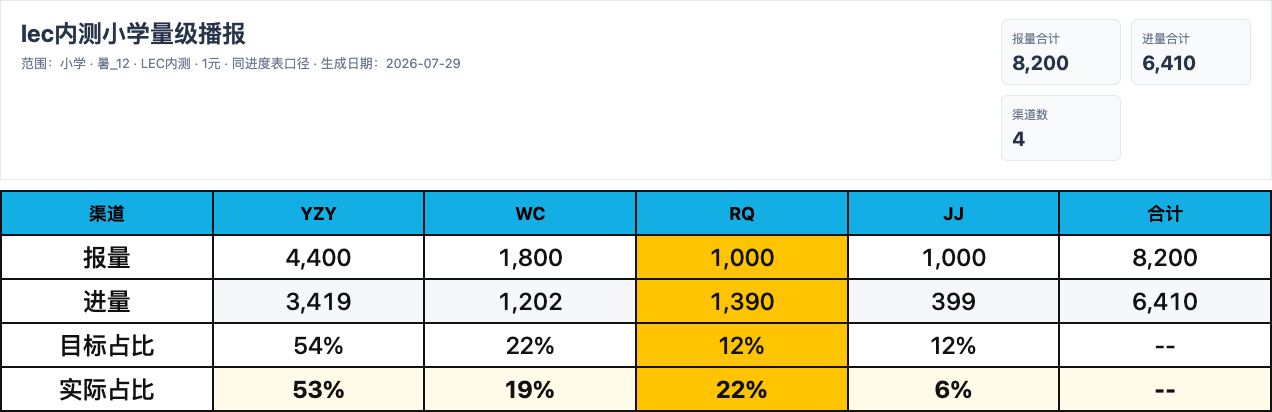
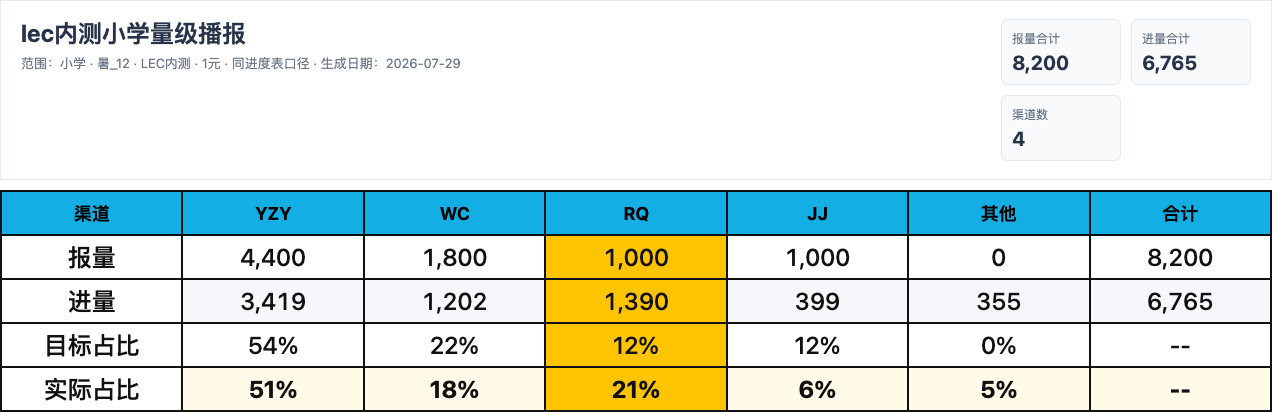
Align lec1 report with summary totals

diff --git a/reports/daily_progress/lec1_share.html b/reports/daily_progress/lec1_share.html
@@ -14,14 +14,14 @@
       </div>
       <div class="metrics">
         <div><span>报量合计</span><b>8,200</b></div>
-        <div><span>进量合计</span><b>6,410</b></div>
+        <div><span>进量合计</span><b>6,765</b></div>
         <div><span>渠道数</span><b>4</b></div>
       </div>
     </header>
     <section class="card lec1-card">
       <table class="lec1-table">
-        <thead><tr><th>渠道</th><th>YZY</th><th>WC</th><th>RQ</th><th>JJ</th><th>合计</th></tr></thead>
-        <tbody><tr><th>报量</th><td class="num">4,400</td><td class="num">1,800</td><td class="num highlight">1,000</td><td class="num">1,000</td><td class="num">8,200</td></tr><tr><th>进量</th><td class="num">3,419</td><td class="num">1,202</td><td class="num highlight">1,390</td><td class="num">399</td><td class="num">6,410</td></tr><tr><th>目标占比</th><td>54%</td><td>22%</td><td class="highlight">12%</td><td>12%</td><td>--</td></tr><tr><th>实际占比</th><td>53%</td><td>19%</td><td class="highlight">22%</td><td>6%</td><td>--</td></tr></tbody>
+        <thead><tr><th>渠道</th><th>YZY</th><th>WC</th><th>RQ</th><th>JJ</th><th>其他</th><th>合计</th></tr></thead>
+        <tbody><tr><th>报量</th><td class="num">4,400</td><td class="num">1,800</td><td class="num highlight">1,000</td><td class="num">1,000</td><td class="num">0</td><td class="num">8,200</td></tr><tr><th>进量</th><td class="num">3,419</td><td class="num">1,202</td><td class="num highlight">1,390</td><td class="num">399</td><td class="num">355</td><td class="num">6,765</td></tr><tr><th>目标占比</th><td>54%</td><td>22%</td><td class="highlight">12%</td><td>12%</td><td>0%</td><td>--</td></tr><tr><th>实际占比</th><td>51%</td><td>18%</td><td class="highlight">21%</td><td>6%</td><td>5%</td><td>--</td></tr></tbody>
       </table>
     </section>
   </main>

diff --git a/tests/test_daily_report_images.py b/tests/test_daily_report_images.py
@@ -1,4 +1,8 @@
+import json
+import tempfile
 import unittest
+from pathlib import Path
+from unittest.mock import patch
 
 import pandas as pd
 
@@ -8,14 +12,19 @@ from reports.build_daily_report_images import (
     filter_lec1_data,
     lec1_actual_shares,
     lec1_channel_counts,
+    lec1_summary_scope,
     latest_lec1_term,
     latest_target_term,
     progress_gap,
     remaining_days,
+    render_lec1_share,
     render_rows,
     status_text,
     term_key,
 )
+
+
+ROOT = Path(__file__).parents[1]
 
 
 class RemainingDaysTest(unittest.TestCase):
@@ -204,7 +213,7 @@ class Lec1ChannelsTest(unittest.TestCase):
         self.assertEqual(len(result), 2)
         self.assertEqual(counts[yzy_index], 1)
 
-    def test_actual_share_uses_one_yuan_denominator(self):
+    def test_actual_share_uses_one_yuan_denominator_by_default(self):
         data = pd.DataFrame(
             [
                 {"价体": 100, "custom_uid": "y1", "last_from": "out_wxst_wxstqt_1774944753086"},
@@ -217,6 +226,127 @@ class Lec1ChannelsTest(unittest.TestCase):
         shares = lec1_actual_shares(data)
 
         self.assertEqual(shares, [2 / 3, 0, 1 / 3, 0])
+
+    def test_render_lec1_share_uses_summary_total_and_keeps_other_channel(self):
+        demo = pd.DataFrame(
+            [
+                {
+                    "学部": "小学",
+                    "期次": "暑_12",
+                    "线索渠道二级分类": "LEC内测",
+                    "价体": 100,
+                    "年级": "三年级",
+                    "下单日期": "2026-07-09",
+                    "custom_uid": "known",
+                    "last_from": "out_wxst_wxstqt_1774944753086",
+                },
+                {
+                    "学部": "小学",
+                    "期次": "暑_12",
+                    "线索渠道二级分类": "LEC内测",
+                    "价体": 100,
+                    "年级": "三年级",
+                    "下单日期": "2026-07-09",
+                    "custom_uid": "other",
+                    "last_from": "unlisted-source",
+                },
+            ]
+        )
+        target = pd.DataFrame(
+            [
+                {
+                    "学部": "小学",
+                    "期次": "暑_12",
+                    "线索渠道二级分类": "LEC内测",
+                    "价体": 100,
+                    "年级": "三年级",
+                    "目标": 8200,
+                    "target_time": "2026-07-29",
+                    "进量日期": "2026-07-23",
+                },
+            ]
+        )
+        summary = pd.DataFrame(
+            [
+                {
+                    "学部": "小学",
+                    "期次": "暑_12",
+                    "线索渠道二级分类": "LEC内测",
+                    "价体": "1.0",
+                    "年级": "三年级",
+                    "下单日期": "2026-07-09",
+                    "target_time": "2026-07-29",
+                    "进量日期": "2026-07-23",
+                    "目标": 8200,
+                    "现状": 2,
+                    "完成率": 2 / 8200,
+                    "进度": 0.5,
+                },
+            ]
+        )
+
+        with tempfile.TemporaryDirectory() as temp_dir, patch(
+            "reports.build_daily_report_images.OUT_DIR",
+            Path(temp_dir),
+        ):
+            output = render_lec1_share(demo, target, summary)
+
+        self.assertEqual(output["summary"]["报量"], "8200")
+        self.assertEqual(output["summary"]["进量"], "2")
+        self.assertIn("YZY=1", output["summary"]["渠道进量"])
+        self.assertIn("其他=1", output["summary"]["渠道进量"])
+
+    def test_lec1_summary_scope_accepts_csv_and_xlsx_payment_formats(self):
+        summary = pd.DataFrame(
+            [
+                {"学部": "小学", "期次": "暑_12", "线索渠道二级分类": "LEC内测", "价体": "1.0", "目标": 1, "现状": 1},
+                {"学部": "小学", "期次": "暑_12", "线索渠道二级分类": "LEC内测", "价体": "1", "目标": 2, "现状": 2},
+                {"学部": "小学", "期次": "暑_12", "线索渠道二级分类": "LEC内测", "价体": "9.9", "目标": 3, "现状": 3},
+            ]
+        )
+
+        scoped = lec1_summary_scope(summary, "暑_12")
+
+        self.assertEqual(scoped["目标"].sum(), 3)
+
+
+class ArtifactConsistencyTest(unittest.TestCase):
+    def test_csv_xlsx_and_manifest_share_current_summary_metrics(self):
+        csv = pd.read_csv(ROOT / "outputs/tongji_summary/tongji_summary_current.csv")
+        xlsx = pd.read_excel(
+            ROOT / "outputs/tongji_summary/tongji_summary_current.xlsx",
+            sheet_name="目标现状对比",
+            header=1,
+        )
+        with (ROOT / "reports/daily_progress/manifest.json").open() as handle:
+            manifest = {item["dept"]: item for item in json.load(handle)}
+
+        self.assertEqual(len(csv), len(xlsx))
+        self.assertEqual(int(csv["目标"].sum()), int(xlsx["目标"].sum()))
+        self.assertEqual(int(csv["现状"].sum()), int(xlsx["现状"].sum()))
+
+        for dept in ["小学", "初中", "高中"]:
+            item = manifest[dept]
+            scoped = csv[csv["学部"].eq(dept) & csv["期次"].eq(item["term"])]
+            target = int(scoped["目标"].sum())
+            current = int(scoped["现状"].sum())
+            progress = pd.to_numeric(scoped["进度"], errors="coerce")
+            self.assertEqual(item["summary"]["目标"], str(target))
+            self.assertEqual(item["summary"]["成单量"], str(current))
+            self.assertEqual(
+                item["summary"]["平均进度"],
+                str(progress.dropna().mean()),
+            )
+
+        lec1 = manifest["lec1"]
+        lec1_scope = csv[
+            csv["学部"].eq("小学")
+            & csv["期次"].eq(lec1["term"])
+            & csv["线索渠道二级分类"].eq("LEC内测")
+            & pd.to_numeric(csv["价体"], errors="coerce").eq(1)
+        ]
+        self.assertEqual(lec1["summary"]["报量"], str(int(lec1_scope["目标"].sum())))
+        self.assertEqual(lec1["summary"]["进量"], str(int(lec1_scope["现状"].sum())))
 
 
 class StatusTextTest(unittest.TestCase):

diff --git a/reports/build_daily_report_images.py b/reports/build_daily_report_images.py
@@ -9,7 +9,7 @@ import pandas as pd
 
 
 ROOT = Path("/Users/kityhello/workplace/project/rizhuizong")
-SUMMARY_PATH = ROOT / "outputs" / "tongji_summary" / "tongji_summary_current.xlsx"
+SUMMARY_PATH = ROOT / "outputs" / "tongji_summary" / "tongji_summary_current.csv"
 DEMO_PATH = ROOT / "tongji_demo.xlsx"
 TARGET_PATH = ROOT / "tongji_target.xlsx"
 OUT_DIR = ROOT / "reports" / "daily_progress"
@@ -132,6 +132,15 @@ def normalize_summary_frame(df):
     for col in ["下单日期", "target_time", "进量日期"]:
         data[col] = pd.to_datetime(data[col], errors="coerce")
     return data
+
+
+def payment_as_number(value):
+    if pd.isna(value):
+        return pd.NA
+    numeric = pd.to_numeric(value, errors="coerce")
+    if pd.isna(numeric):
+        return pd.NA
+    return float(numeric)
 
 
 def enrich(df):
@@ -314,6 +323,17 @@ def latest_lec1_term(target):
     return latest_target_term(scoped)
 
 
+def lec1_summary_scope(summary, term):
+    data = summary.copy()
+    data["价体"] = data["价体"].map(payment_as_number)
+    return data[
+        data["学部"].eq(LEC1_DEPARTMENT)
+        & data["期次"].eq(term)
+        & data["线索渠道二级分类"].eq(LEC1_CHANNEL)
+        & data["价体"].isin([value / 100 for value in LEC1_PAYMENT_VALUES])
+    ].copy()
+
+
 def normalize_report_channel(value):
     if isinstance(value, str) and value.startswith("外部微转-"):
         return "外部微转-*"
@@ -387,25 +407,33 @@ def lec1_channel_count(data, last_from, payment_values):
     return len(set(keys))
 
 
-def lec1_actual_shares(data):
+def lec1_actual_shares(data, total=None):
     one_yuan_counts = [
         lec1_channel_count(data, last_from, [100])
         for _name, last_from, _target_volume, _target_share in LEC1_CHANNELS
     ]
-    one_yuan_total = sum(one_yuan_counts)
-    return [count / one_yuan_total if one_yuan_total else 0 for count in one_yuan_counts]
+    denominator = sum(one_yuan_counts) if total is None else total
+    return [count / denominator if denominator else 0 for count in one_yuan_counts]
 
 
-def render_lec1_share(demo, target):
+def render_lec1_share(demo, target, summary):
     term = latest_lec1_term(target)
     data = filter_lec1_data(demo, target, term)
+    summary_scope = lec1_summary_scope(summary, term)
     counts = lec1_channel_counts(data)
-    intake_total = sum(counts)
     target_volumes = [target_volume for _name, _last_from, target_volume, _target_share in LEC1_CHANNELS]
-    target_total = sum(target_volumes)
-    target_shares = [target_share for _name, _last_from, _target_volume, target_share in LEC1_CHANNELS]
-    actual_shares = lec1_actual_shares(data)
+    target_total = int(summary_scope["目标"].sum())
+    intake_total = int(summary_scope["现状"].sum())
+    other_target = target_total - sum(target_volumes)
+    other_count = intake_total - sum(counts)
+    if other_target or other_count:
+        target_volumes.append(other_target)
+        counts.append(other_count)
+    target_shares = [target_volume / target_total if target_total else 0 for target_volume in target_volumes]
+    actual_shares = [count / intake_total if intake_total else 0 for count in counts]
     names = [name for name, _last_from, _target_volume, _target_share in LEC1_CHANNELS]
+    if len(counts) > len(names):
+        names.append("其他")
 
     def cells(values, formatter, extra_class=""):
         rendered = []
@@ -548,7 +576,7 @@ def render_department(dept, df):
 def main():
     OUT_DIR.mkdir(parents=True, exist_ok=True)
     (OUT_DIR / "report.css").write_text(CSS, encoding="utf-8")
-    df = normalize_summary_frame(pd.read_excel(SUMMARY_PATH, sheet_name="目标现状对比", header=1))
+    df = normalize_summary_frame(pd.read_csv(SUMMARY_PATH))
     demo = pd.read_excel(DEMO_PATH, sheet_name="rizhuizong_city (17)")
     target = pd.read_excel(TARGET_PATH, sheet_name="Sheet1")
     outputs = []
@@ -559,7 +587,7 @@ def main():
         output = render_department(dept, dept_df)
         if output:
             outputs.append(output)
-    lec1_output = render_lec1_share(demo, target)
+    lec1_output = render_lec1_share(demo, target, df)
     if lec1_output:
         outputs.append(lec1_output)
     (OUT_DIR / "manifest.json").write_text(json.dumps(outputs, ensure_ascii=False, indent=2), encoding="utf-8")

diff --git a/docs/PRD-progress-dashboard.md b/docs/PRD-progress-dashboard.md
@@ -818,7 +818,7 @@ state/
 - 剩余天数：与进度使用同一计算结果，目标日及以后为 0；目标日前为 `max(6 - 当前进度阶段, 1)`，当前进度阶段等于进度乘 6。
 - 状态：与看板状态分类一致。
 - 年级排序：小学二至六年级、初中初一至初三、高中高一至高三。
-- lec内测小学量级：固定统计小学、LEC内测、1 元、target 中该范围最新期次；YZY 4400、WC 1800、RQ 1000、JJ 1000；目标占比固定为 54%、22%、12%、12%；实际占比按 1 元价体成单量计算。
+- lec内测小学量级：固定统计小学、LEC内测、1 元、target 中该范围最新期次；报量合计和进量合计必须来自统一 Summary；YZY 4400、WC 1800、RQ 1000、JJ 1000；四个指定 last_from 外的 Summary 进量差额列为“其他”；实际占比按 Summary 进量合计计算。
 
 ### 8.4 钉钉输出规则
 
